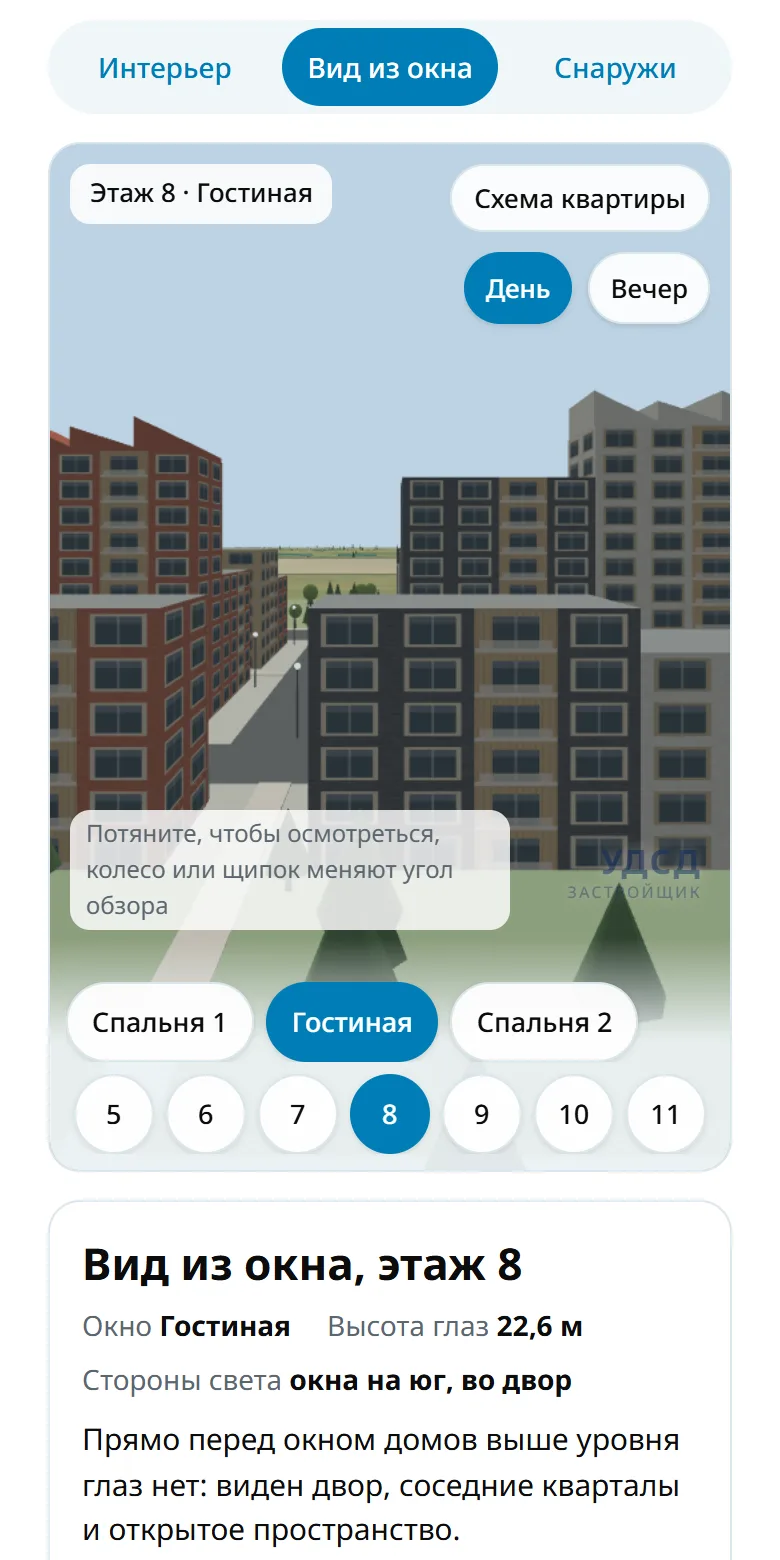
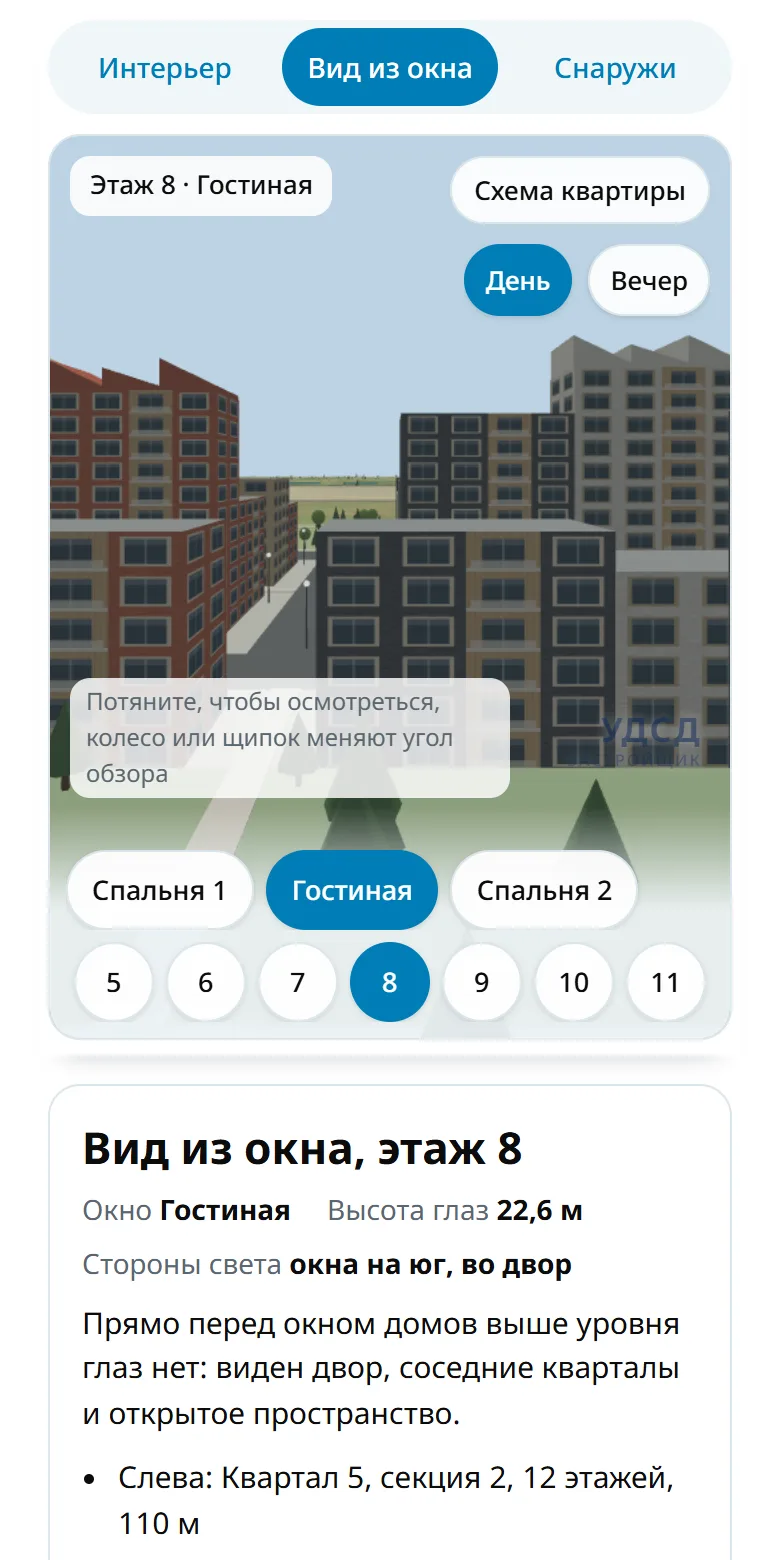
Демо: вкладки и 3D-сцена закреплены вверху при прокрутке

diff --git a/demo/index.html b/demo/index.html
@@ -60,7 +60,11 @@ h1{font-family:var(--f-display);font-weight:700;font-size:clamp(26px,6vw,38px);l
 .tabs{display:grid;grid-template-columns:repeat(3,1fr);gap:4px;padding:4px;border:0;border-radius:44px;background:var(--chip)}
 .tabs button{border:0;background:transparent;color:var(--acc);font:500 14px var(--f-body);padding:10px 4px;border-radius:40px;cursor:pointer;white-space:nowrap}
 .tabs button[aria-pressed="true"]{background:var(--acc);color:var(--accfg)}
-.stage{position:relative;height:clamp(400px,66vh,660px);background:var(--stage);border:1px solid var(--line);border-radius:16px;overflow:hidden;--dockh:0px}
+/* pinned block: tabs + stage stick to the top of the screen; the rest of the page scrolls under it.
+   Phones get a shorter stage so there is room to scroll the controls; short landscape screens do not pin at all. */
+.pin{position:sticky;top:0;z-index:5;display:flex;flex-direction:column;gap:10px;background:var(--bg);margin:0 -4px;padding:max(6px,env(safe-area-inset-top,0px)) 4px 8px;box-shadow:0 10px 12px -12px rgba(15,40,55,.35)}
+@media (max-height:560px){.pin{position:static;box-shadow:none}}
+.stage{position:relative;height:clamp(340px,58vh,640px);background:var(--stage);border:1px solid var(--line);border-radius:16px;overflow:hidden;--dockh:0px}
 .stage canvas{display:block;width:100%;height:100%;touch-action:none}
 /* controls on the stage: a dock of chip rows along the bottom edge, day/evening under the plan button */
 .dock{position:absolute;left:0;right:0;bottom:0;display:flex;flex-direction:column;gap:6px;padding:22px 8px 8px;background:linear-gradient(to top,color-mix(in srgb,var(--stage) 92%,transparent) 55%,transparent);touch-action:pan-x;pointer-events:none}
@@ -158,6 +162,8 @@ svg text{font-family:var(--f-body)}
     <h1 id="h1">Трёхкомнатная квартира, 72,6 м²</h1>
   </header>
 
+  <!-- the mode tabs and the 3D stage stay pinned at the top while the controls and the card below scroll under them -->
+  <div class="pin" id="pin">
   <div class="tabs" role="group" aria-label="Режим">
     <button type="button" id="tInt" aria-pressed="true">Интерьер</button>
     <button type="button" id="tWin" aria-pressed="false">Вид из окна</button>
@@ -184,6 +190,7 @@ svg text{font-family:var(--f-body)}
       <div class="chips" id="rFloor" data-m="win ext" role="group" aria-label="Этаж"><span class="dlab">Этаж</span></div>
     </div>
     <div class="fallback" id="fb"><div>Не удалось запустить 3D в этом браузере.<br>Обновите страницу (Ctrl+F5) или откройте её в Chrome, Яндекс Браузере или Edge. Если не помогло — включите в настройках браузера аппаратное ускорение.<small></small></div></div>
+  </div>
   </div>
 
   <div class="panel" id="pInt">

diff --git a/CLAUDE.md b/CLAUDE.md
@@ -43,3 +43,4 @@
 
 ## Проверка
 `node tools/screens.js` (нужен `npm i playwright` и `npx playwright install chromium`) — снимает основные режимы на 420×900 в `shots/`. После правок: синтаксис (`node --check` на извлечённом скрипте), скриншоты, ручной просмотр на телефоне.
+- Вкладки режимов и 3D-сцена обёрнуты в `.pin` (`position:sticky; top:0`): при прокрутке к панелям ниже сцена остаётся на месте (просьба пользователя, 27.10.2026). Высота сцены `clamp(340px,58vh,640px)`, чтобы под ней оставалось место; при высоте окна < 560px (телефон боком) не закрепляется.
